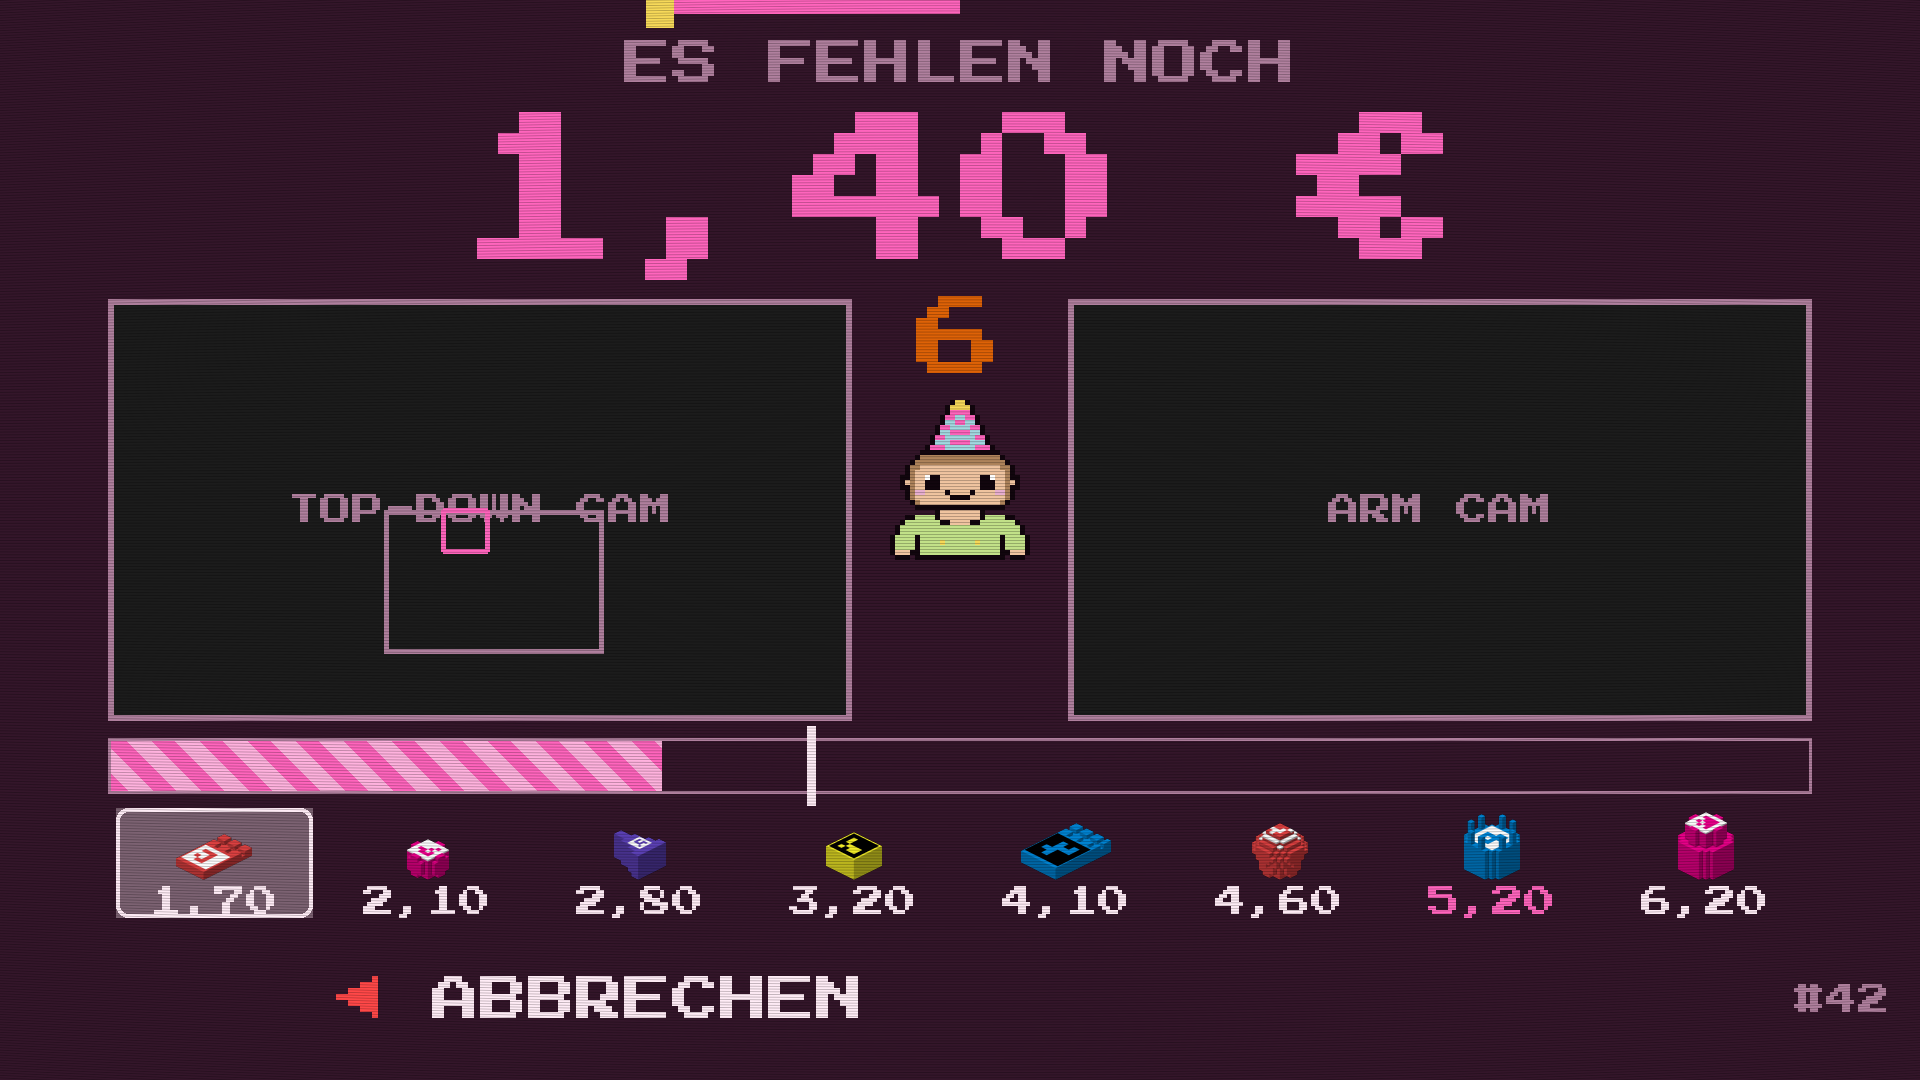
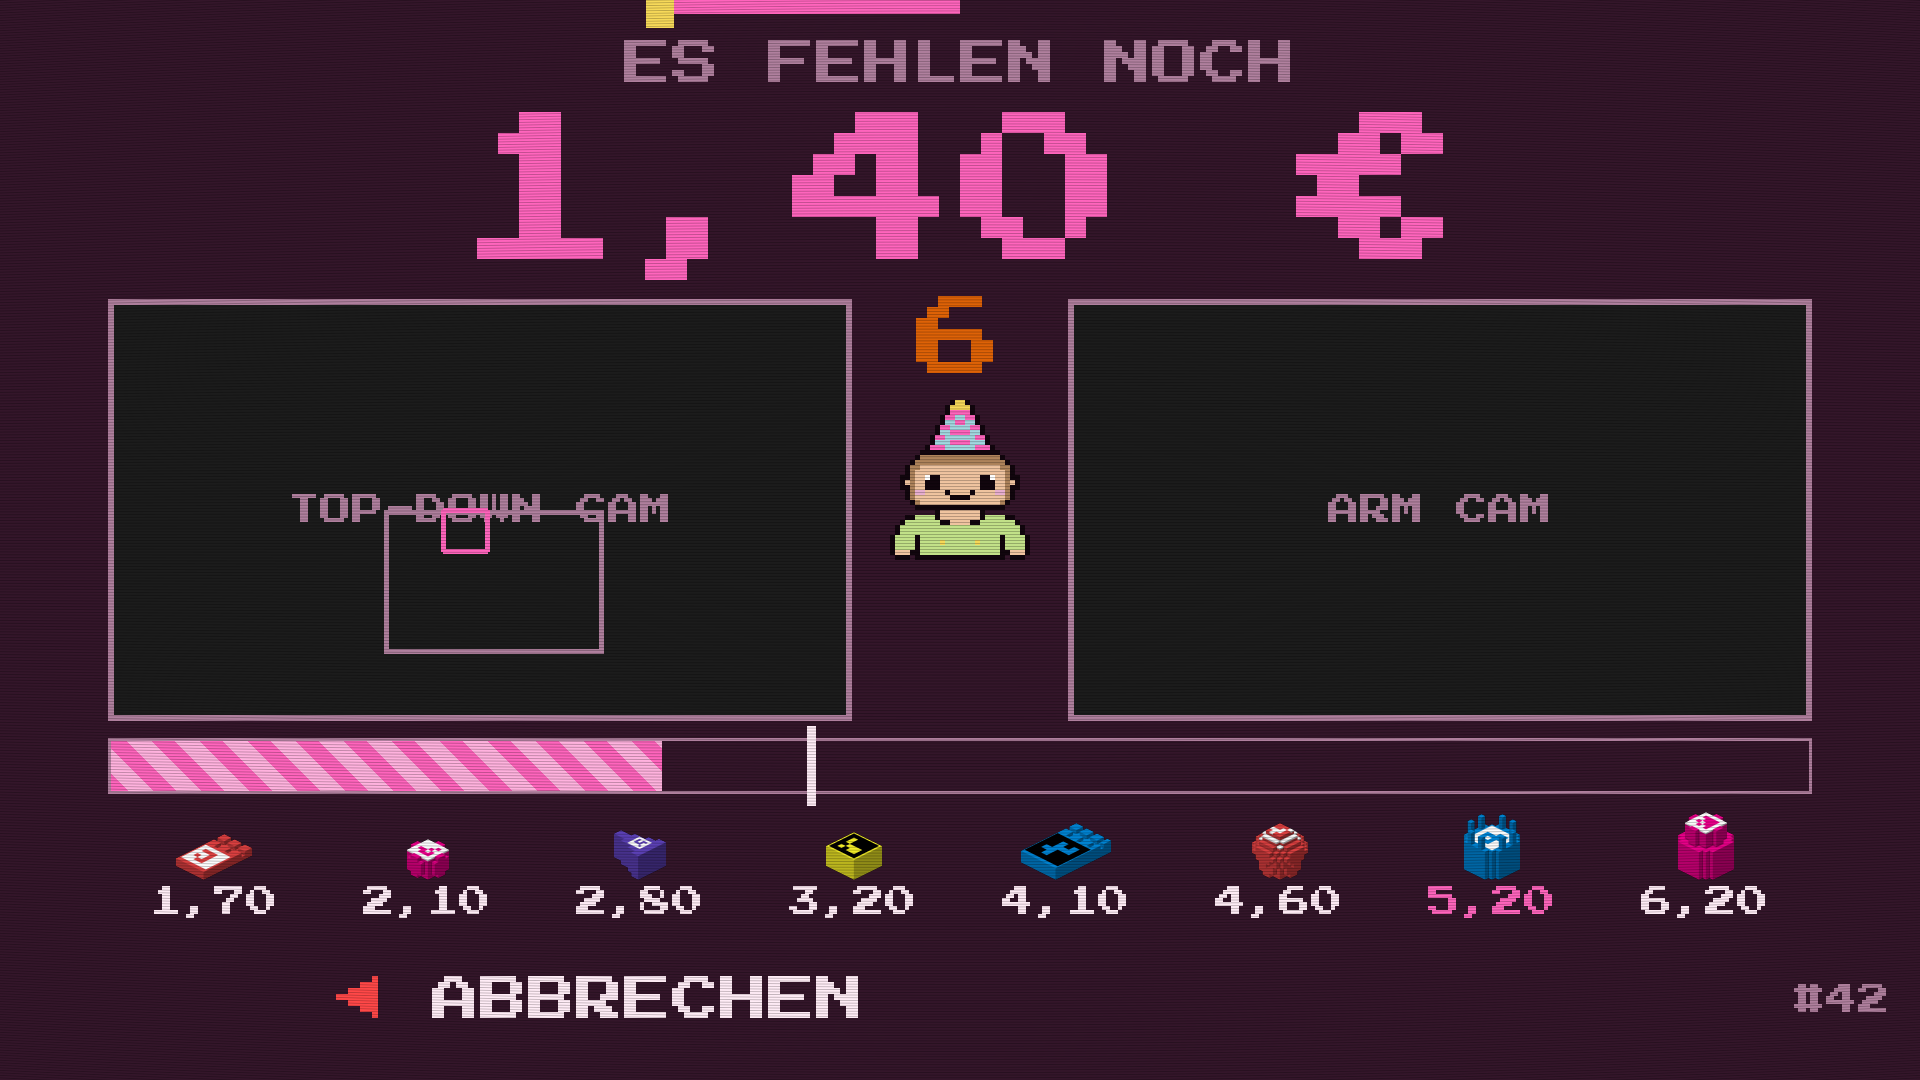
fix: think countdown no longer clips at the top (label back to normal size, seconds big beside the budget), hint back to hop + blink, no prices under the idle parade

Changed region(s): [[0.0625, 0.7333, 0.1875, 0.8556]]

diff --git a/game/scenes.py b/game/scenes.py
@@ -184,15 +184,15 @@ def hop(t, i=0, px=8):
     return -px if int(t * 4 + i) % 2 else 0
 
 
-def parade(screen, t, y, speed, font=None, scale=5, gap=160):
+def parade(screen, t, y, speed, scale=5, gap=160):
     """Conveyor belt of all sprites across the screen, attract-mode decoration.
 
     Blits directly instead of via stamp(): the belt deliberately runs off
     the left and right edge of the image, and that's exactly what the
     self-test would flag as a bug.
     """
-    # The treats on the table, with their prices (30.9.): the queue learns
-    # the set while it waits. Sprites of retired treats are gone from here.
+    # The treats on the table (30.9.): the queue sees the real set while it
+    # waits. Sprites of retired treats are gone from here.
     keys = sorted(VALUES, key=VALUES.get)
     # The belt length must be a whole number of slots: with span = WIDTH + gap
     # and one slot too many, the last sprite sat exactly on the first.
@@ -208,9 +208,7 @@ def parade(screen, t, y, speed, font=None, scale=5, gap=160):
         else:
             s = sprite(SPRITE[k], scale)
             screen.blit(s, s.get_rect(center=(round(x), y + hop(t, i, scale))))
-        if font:
-            p = render(font, euro(VALUES[k], sign=False), GREY)
-            screen.blit(p, p.get_rect(center=(round(x), y + 52)))
+
 
 
 # The demo loop on the story screen: the robot picks a treat off the table
@@ -642,7 +640,7 @@ class IdleScene(SceneBase):
         screen.fill(BG)
         # The display scrolls by at the top -- that's the attract mode. From
         # 8 m you see motion before you read text.
-        parade(screen, self.now, 96, 60, f["tiny"])
+        parade(screen, self.now, 96, 60)
         # Title character by character: every letter in a candy color, as a
         # wave. Monospace, one character width is the step like in draw_hint().
         title = "PICK'N'PLAY"
@@ -1213,17 +1211,16 @@ class GameScene(SceneBase):
         """Every treat with its price, cheap to expensive -- which is also
         small to big. What's on the tray is pink; the hint hops."""
         hint = self.hint()
-        blink = int(self.clock * 2) % 2
-        cell = self.BAR.w / len(VALUES)
+        blink = int(self.clock * 4) % 2
         for i, k in enumerate(sorted(VALUES, key=VALUES.get)):
-            x = self.BAR.x + cell * (i + 0.5)
-            # The hint (30.9.): a glowing card around treat and price that
-            # blinks, instead of a hop -- the hop read as noise.
-            if k == hint and blink:
-                glow(screen, pygame.Rect(round(x - cell / 2 + 8), self.STRIP_Y - 40,
-                                         round(cell - 16), 110), WHITE, 90)
-            pic(screen, k, 190, 68, x, self.STRIP_Y + 32, 4)
+            x = self.BAR.x + self.BAR.w * (i + 0.5) / len(VALUES)
+            pic(screen, k, 190, 68, x, self.STRIP_Y + 32
+                + (hop(self.clock, 0, 8) if k == hint else 0), 4)
+            # The hinted price blinks along with the hop: 8 px alone was too
+            # subtle to catch from the leader arm.
             color = ACCENT if k in self.marks else WHITE
+            if k == hint and blink:
+                color = BG
             draw(screen, f["tiny"], euro(VALUES[k], sign=False), x, self.STRIP_Y + 54, color)
 
     def ladder(self, screen, f):
@@ -1303,7 +1300,9 @@ class GameScene(SceneBase):
         if self.phase == "order":
             label = self.t("think", n=max(0, math.ceil(self.think)))
         if self.phase == "order":     # the countdown IS the message here (30.9.)
-            draw(screen, f["mid"], label, 960, 60, WHITE)
+            draw(screen, f["small"], label, 960, 64, WHITE)
+            n = max(0, math.ceil(self.think))
+            draw(screen, f["mid"], n, 1700, 196, ORANGE if n <= 5 else WHITE)
         else:
             draw(screen, f["small"], label, 960, 64, GREY)
         draw(screen, big, value, 960, 196, ACCENT)

diff --git a/docs/handoff.md b/docs/handoff.md
@@ -153,3 +153,7 @@ Live: voxel ladder, settings.json + staff menu (hold red + green 3 s), self-heal
 (Vadim's UX test must not use #100); after the next power cycle numbering starts at 100.
 Open: arm calibration wizard in the menu (lerobot-calibrate prompts: "c"+Enter,
 middle pose Enter, move all joints, Enter), USB-stick update, expo card (not wanted).
+`set-environment` survives every restart of pnp-expo (crash, watchdog, staff menu),
+only a reboot clears it. If the Pi stays on overnight, reset it after closing:
+`sudo systemctl unset-environment PNP_PLAYER_FIRST && sudo systemctl restart pnp-expo`,
+then `systemctl show-environment | grep PLAYER` must be empty and next_player 100.
